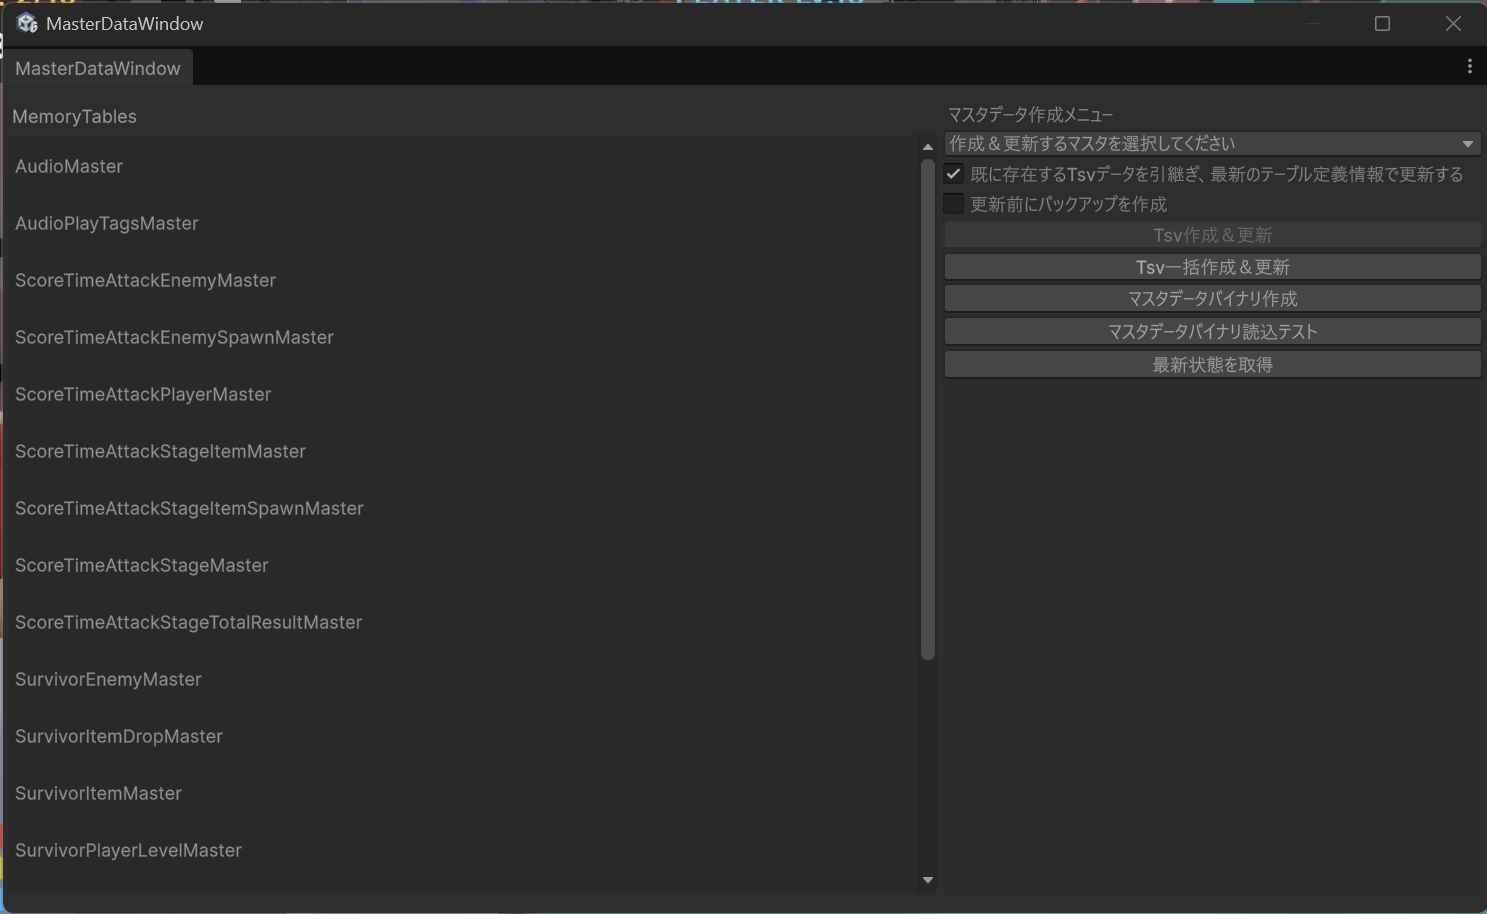
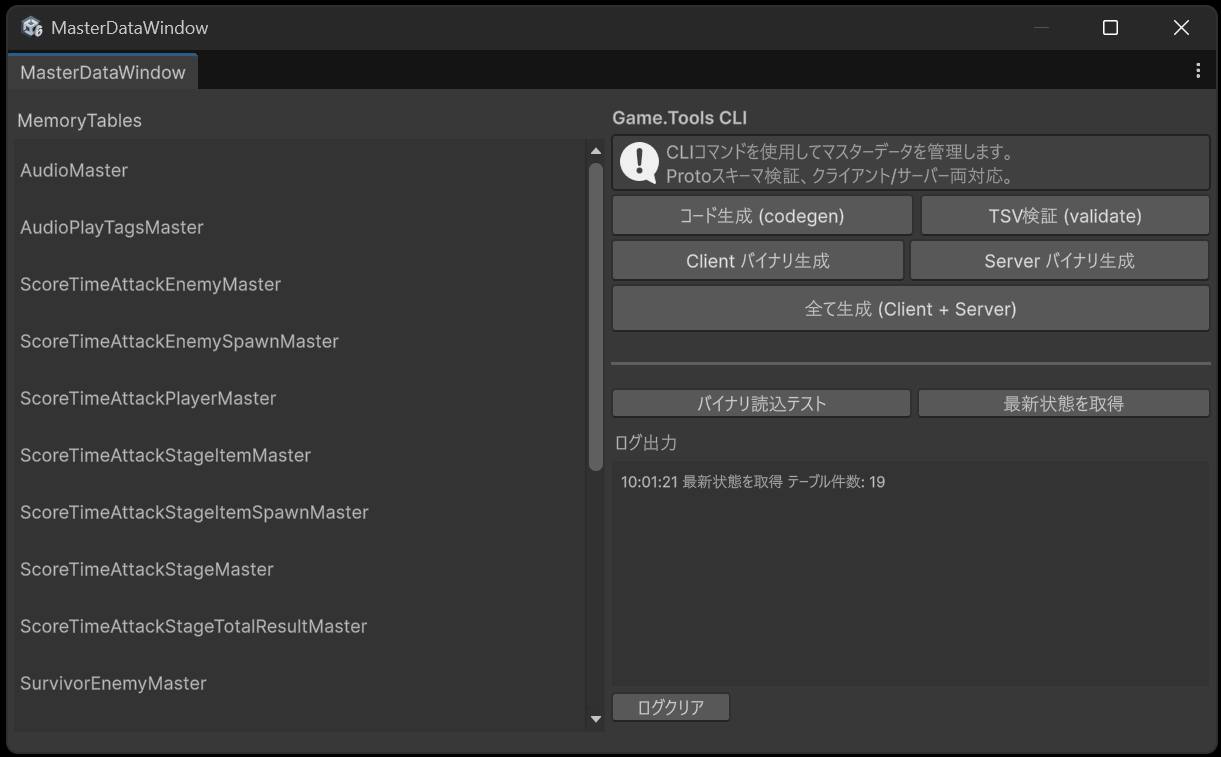
ドキュメント更新 (#46)

Changed region(s): [[0.0, 0.0, 1.0, 1.0]]

diff --git a/ARCHITECTURE.md b/ARCHITECTURE.md
@@ -1,7 +1,7 @@
 # Unity6Portfolio アーキテクチャ設計書
 
-**バージョン**: 1.2
-**最終更新**: 2026年2月10日
+**バージョン**: 1.3
+**最終更新**: 2026年2月11日
 
 ---
 
@@ -741,7 +741,72 @@ Game.Tools
 └─────────────────────────────────────────────────────────────────┘
 ```
 
-### 7.4 イベントフロー（MessagePipe）
+### 7.4 認証・セッション管理フロー
+
+サーバー連携によるユーザー認証とセッション管理:
+
+```
+┌─────────────────────────────────────────────────────────────────┐
+│                 Authentication Flow                              │
+├─────────────────────────────────────────────────────────────────┤
+│                                                                 │
+│  ① アプリ起動時                                                  │
+│  ┌──────────────┐    ┌──────────────┐    ┌──────────────┐      │
+│  │SessionService│───▶│ローカル保存  │───▶│トークン復元  │      │
+│  │RestoreSession│    │データ読み込み│    │認証状態復帰  │      │
+│  └──────────────┘    └──────────────┘    └──────────────┘      │
+│                                                                 │
+│  ② 新規ユーザー（ゲストログイン）                                 │
+│  ┌──────────────┐    ┌──────────────┐    ┌──────────────┐      │
+│  │デバイス      │───▶│AuthApiService│───▶│ユーザーID    │      │
+│  │フィンガー    │    │GuestLogin    │    │トークン発行  │      │
+│  │プリント生成  │    └──────────────┘    └──────────────┘      │
+│  └──────────────┘                                               │
+│                                                                 │
+│  ③ アカウント連携                                                │
+│  ┌──────────────┐    ┌──────────────┐    ┌──────────────┐      │
+│  │メール/PW入力 │───▶│AuthApiService│───▶│連携完了      │      │
+│  │Account Link  │    │LinkEmail     │    │authType更新  │      │
+│  │Dialog        │    └──────────────┘    └──────────────┘      │
+│  └──────────────┘                                               │
+│                                                                 │
+│  ④ 引き継ぎパスワード                                            │
+│  ┌──────────────┐    ┌──────────────┐    ┌──────────────┐      │
+│  │パスワード発行│───▶│12桁パスワード│───▶│ローカル保存  │      │
+│  │IssueTransfer │    │サーバー生成  │    │表示・コピー  │      │
+│  │Password      │    └──────────────┘    └──────────────┘      │
+│  └──────────────┘                                               │
+│                                                                 │
+│  ⑤ データ移行（別端末）                                          │
+│  ┌──────────────┐    ┌──────────────┐    ┌──────────────┐      │
+│  │ユーザーID    │───▶│AuthApiService│───▶│セッション    │      │
+│  │引き継ぎPW    │    │UserIdLogin   │    │復元・継続    │      │
+│  │入力          │    └──────────────┘    └──────────────┘      │
+│  └──────────────┘                                               │
+│                                                                 │
+└─────────────────────────────────────────────────────────────────┘
+```
+
+#### 認証タイプ
+
+| タイプ | 説明 | 連携方法 |
+|-------|------|---------|
+| guest | ゲストユーザー（初期状態） | デバイスフィンガープリント自動生成 |
+| email | メール連携済み | メール/パスワードでログイン可能 |
+| transfer | 引き継ぎ対応 | ユーザーID + 引き継ぎパスワード |
+
+#### 関連クラス
+
+| クラス | 役割 |
+|-------|------|
+| `IAuthApiService` | 認証APIエンドポイント通信 |
+| `AuthApiService` | 認証API実装（REST通信） |
+| `ISessionService` | セッション状態管理インターフェース |
+| `SessionService` | トークン保存/復元/クリア実装 |
+| `SessionSaveData` | セッション永続化データ |
+| `AuthDto` | 認証リクエスト/レスポンスDTO |
+
+### 7.5 イベントフロー（MessagePipe）
 
 ```
 ┌─────────────────────────────────────────────────────────────────┐

diff --git a/README.md b/README.md
@@ -179,6 +179,7 @@ dotnet test
 * **アイテムシステム**: ドロップ抽選、吸引機能、オブジェクトプーリング
 * **ロックオンシステム**: 自動ターゲット追跡、射程管理
 * **セーブデータシステム**: MemoryPackによるバイナリシリアライズ、自動保存
+* **認証・アカウント管理**: ゲストログイン、メール連携、引き継ぎパスワード発行、セッション自動復元
 * **アセット配信システム**: Addressablesによるローカル/リモート自動切り替え、ビルドプロファイル連動
 * **CI/CD**: GitHub Actions + Docker による自動テスト（485テスト）、Unity Acceleratorによるキャッシュ最適化
 
@@ -404,6 +405,33 @@ dotnet run --project src/Game.Tools -- seeddata diff --source-dir masterdata/raw
 
 </details>
 
+<details><summary>認証・アカウント管理システム</summary>
+
+サーバー連携による認証・セッション管理システム:
+
+**認証機能 (AuthApiService):**
+- ゲストログイン（デバイスフィンガープリント）
+- メール/パスワードログイン
+- ユーザーID/パスワードログイン
+- パスワード忘れ・リセット
+- トークンリフレッシュ（自動更新）
+
+**アカウント連携機能:**
+- メールアドレス連携/解除
+- 引き継ぎパスワード発行（12桁）
+- 別端末へのデータ移行
+
+**セッション管理 (SessionService):**
+- トークンの暗号化保存（ローカル）
+- セッション自動復元（アプリ起動時）
+- デバイスフィンガープリント生成
+
+**UI実装:**
+- `SurvivorAccountLinkDialog`: メール連携・引き継ぎパスワード発行UI
+- プロフィール表示（ユーザーID、レベル、認証タイプ）
+
+</details>
+
 <details><summary>アセット配信システム</summary>
 
 ビルドプロファイルに応じてAddressablesのアセット配信元を自動切り替え:
@@ -432,6 +460,7 @@ GitHub Actions + Docker による自動化パイプライン:
 - 合計: 485テスト（全パス）
 
 **ワークフロー:**
+
 | ワークフロー | トリガー | 内容 |
 |-------------|---------|------|
 | unity-ci-docker.yml | push/PR | メインCI（Docker/Linux） |
@@ -591,7 +620,7 @@ Unity6Portfolio/
 ---
 
 ## 制作期間
-* 約7週間 (2026/2/10時点)
+* 約7週間 (2026/2/11時点)
 
 ---
 
@@ -614,15 +643,19 @@ Unity6Portfolio/
 * VContainerを用いたMVPパターンで実装
 * ウェーブ制の敵を倒しながら生き残るサバイバーゲーム
 * 動作環境: PC／マウス&キーボード
-* 操作: 移動(WASD), ダッシュ(LShift+移動)
+* 操作: 移動(WASD), ダッシュ(LShift+移動), カメラ操作(右クリック+ドラッグ)
 * 主要機能:
+  - ユーザーアカウント作成
+  - データ連携(メール/PW, 引継パスワード発行)
+  - オプション(セーブデータ管理, オーディオ音量調整)
   - 自動攻撃武器システム（マスターデータ駆動）
   - ウェーブ管理（敵の段階的出現）
   - アイテムドロップ・吸引
-  - ステージクリア・記録保存
+  - ステージクリア・記録データ保存
 
 ### ダウンロード
 * 実行形式: [デモゲームDLリンク](https://drive.google.com/file/d/1_9vWOvT8leUjd2jB5uTzziSyA5goPmJx/view?usp=drive_link) ※解凍できない場合は7Zipを推奨
+  - GameStartボタンを押下するとリモートアセットをダウンロードします(約400MB)
 
 ---
 

diff --git a/README.en.md b/README.en.md
@@ -180,6 +180,7 @@ dotnet test
 * **Item System**: Drop lottery, attraction feature, object pooling
 * **Lock-On System**: Automatic target tracking, range management
 * **Save Data System**: Binary serialization with MemoryPack, auto-save functionality
+* **Authentication & Account Management**: Guest login, email linking, transfer password issuance, automatic session restoration
 * **Asset Delivery System**: Automatic local/remote switching with Addressables, build profile integration
 * **CI/CD**: Automated testing (485 tests) with GitHub Actions + Docker, Unity Accelerator cache optimization
 
@@ -405,6 +406,33 @@ dotnet run --project src/Game.Tools -- seeddata diff --source-dir masterdata/raw
 
 </details>
 
+<details><summary>Authentication & Account Management System</summary>
+
+Server-integrated authentication and session management system:
+
+**Authentication Features (AuthApiService):**
+- Guest login (device fingerprint)
+- Email/password login
+- User ID/password login
+- Password forgot/reset
+- Token refresh (automatic renewal)
+
+**Account Linking Features:**
+- Email address linking/unlinking
+- Transfer password issuance (12 digits)
+- Data migration to another device
+
+**Session Management (SessionService):**
+- Encrypted token storage (local)
+- Automatic session restoration (on app startup)
+- Device fingerprint generation
+
+**UI Implementation:**
+- `SurvivorAccountLinkDialog`: Email linking and transfer password UI
+- Profile display (user ID, level, auth type)
+
+</details>
+
 <details><summary>Asset Delivery System</summary>
 
 Automatically switches Addressables asset delivery source based on build profile:
@@ -592,7 +620,7 @@ Unity6Portfolio/
 ---
 
 ## Development Period
-* Approximately 7 weeks (as of 2026/2/10)
+* Approximately 7 weeks (as of 2026/2/11)
 
 ---
 
@@ -615,8 +643,11 @@ Unity6Portfolio/
 * Implemented using MVP pattern with VContainer
 * A survivor game where you defeat waves of enemies while staying alive
 * Platform: PC / Mouse & Keyboard
-* Controls: Move (WASD), Dash (LShift+Move)
+* Controls: Move (WASD), Dash (LShift+Move), Camera (Right-click+Drag)
 * Key Features:
+  - User account creation
+  - Data linking (Email/Password, Transfer password issuance)
+  - Options (Save data management, Audio volume adjustment)
   - Auto-attack weapon system (master data driven)
   - Wave management (staged enemy spawning)
   - Item drops and attraction
@@ -624,6 +655,7 @@ Unity6Portfolio/
 
 ### Download
 * Executable: [Demo Game Download Link](https://drive.google.com/file/d/1_9vWOvT8leUjd2jB5uTzziSyA5goPmJx/view?usp=drive_link) *If extraction fails, 7Zip is recommended
+  - Pressing the GameStart button will download remote assets (~400MB)
 
 ---
 
